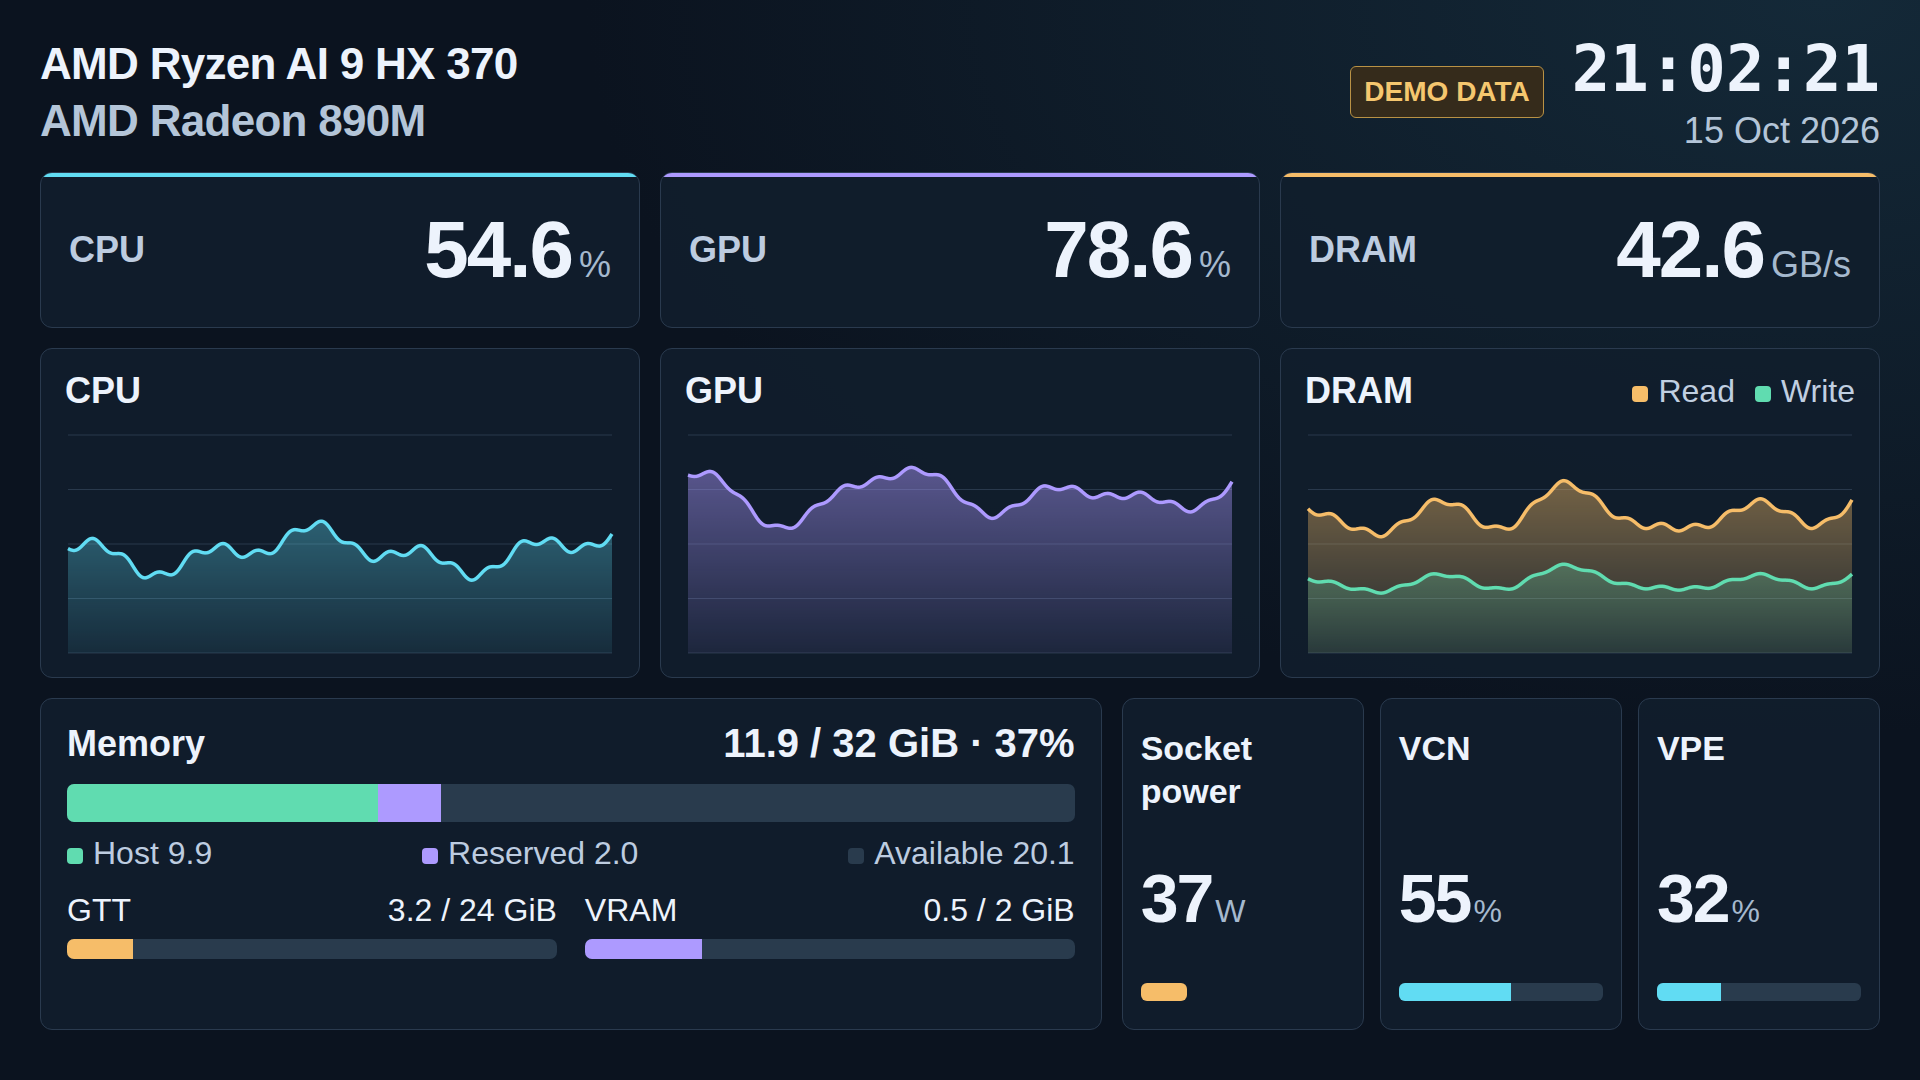
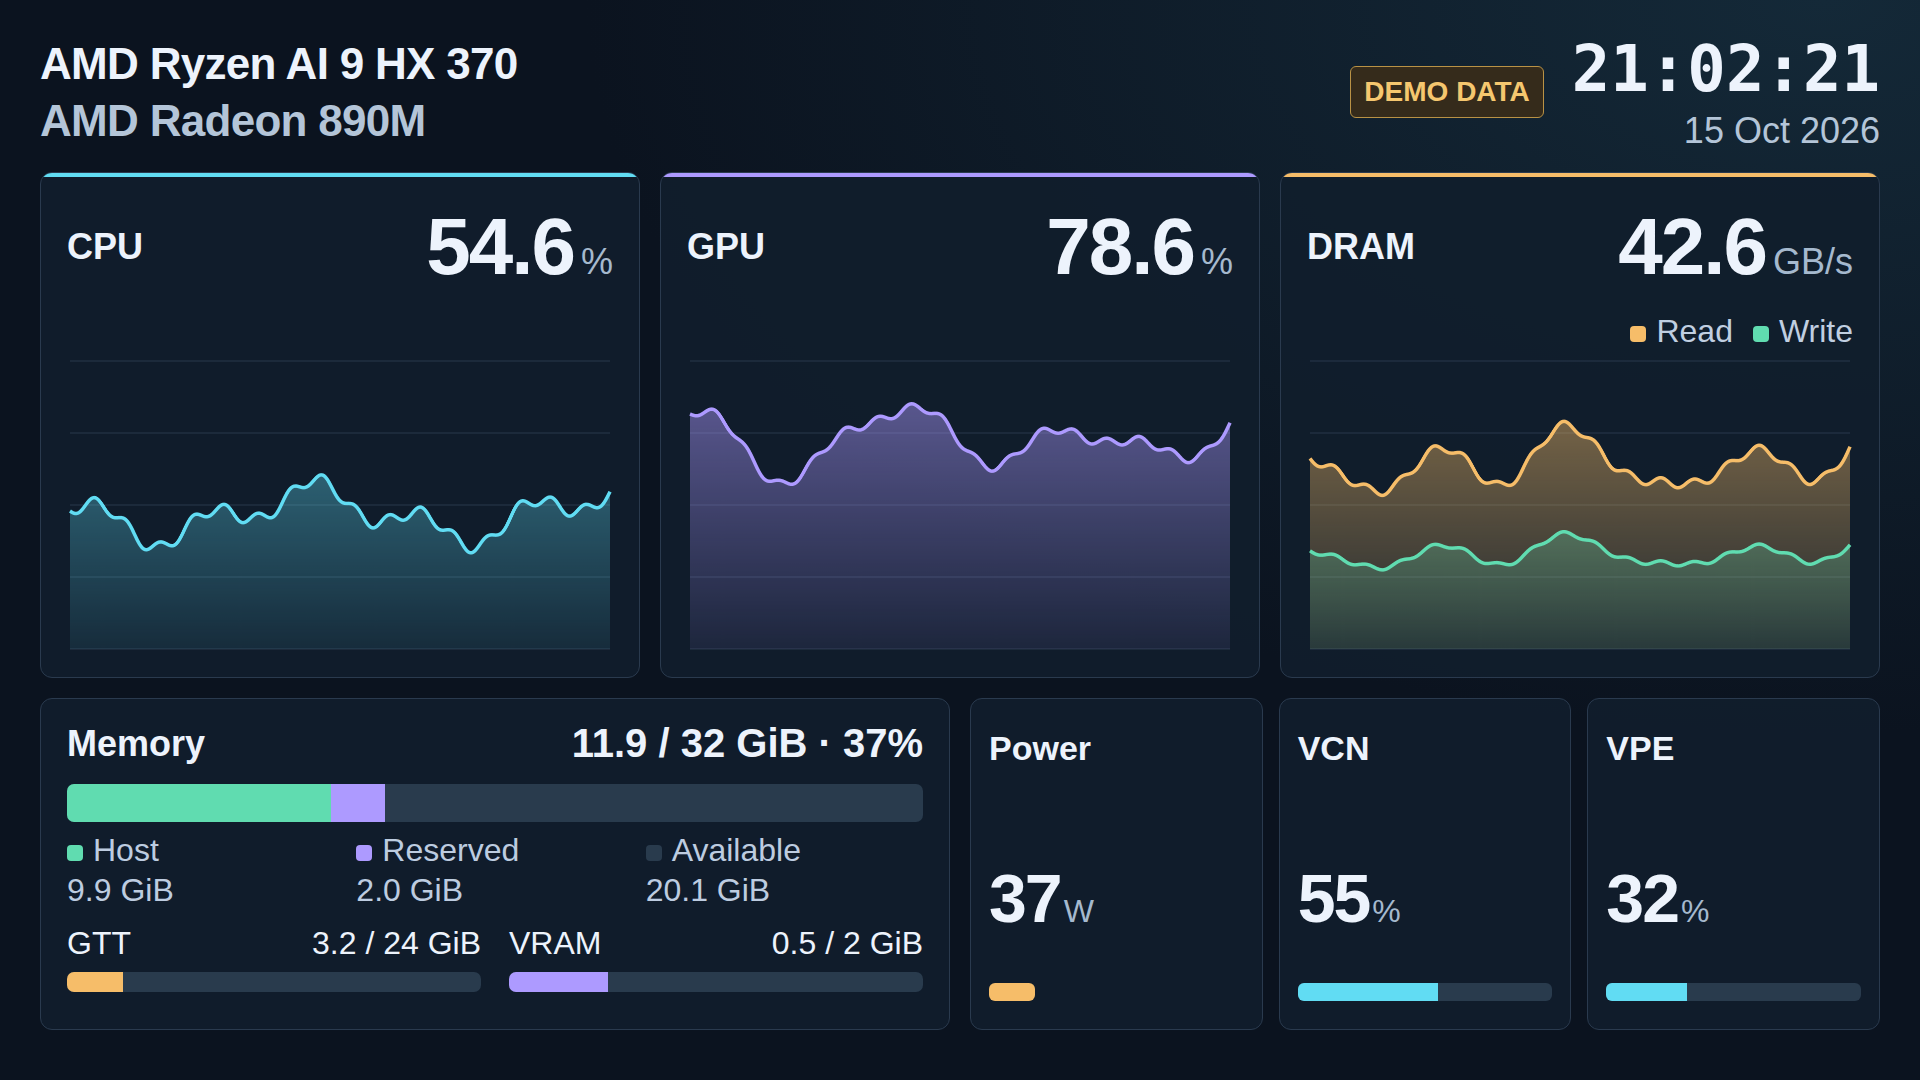
Combine dashboard reading and graph panels and balance lower row

diff --git a/examples/resource-dashboard/index.html b/examples/resource-dashboard/index.html
@@ -24,22 +24,19 @@ header { display: flex; align-items: center; justify-content: space-between; hei
 .badge { font-size: 28px; font-weight: 700; padding: 9px 13px; border: 1px solid #b99245; border-radius: 6px; color: #f5c76f; background: #352b1b; }
 #clock { font: 550 64px ui-monospace, monospace; font-variant-numeric: tabular-nums; }
 #date { font-size: 36px; color: #b4c5d8; margin-top: 4px; }
-.kpis { display: grid; grid-template-columns: repeat(3, 1fr); gap: 20px; margin-bottom: 20px; }
 .panel { background: #111e2ce6; border: 1px solid #2a3a4e; border-radius: 12px; overflow: hidden; }
-.kpi { height: 156px; padding: 18px 28px; position: relative; display: flex; align-items: center; justify-content: space-between; }
-.kpi::before { content: ''; position: absolute; top: 0; left: 0; width: 100%; height: 4px; background: var(--accent); }
-.label { font-size: 36px; font-weight: 550; color: #bdcce0; }
+.chart::before { content: ''; position: absolute; top: 0; left: 0; width: 100%; height: 4px; background: var(--accent); }
 .number { font-size: 80px; line-height: 1.15; letter-spacing: -2px; font-weight: 600; font-variant-numeric: tabular-nums; white-space: nowrap; }
 .number small { font-size: 36px; letter-spacing: 0; font-weight: 400; color: #a5b9ce; margin-left: 7px; }
 .cpu { --accent: #61dcf3; } .gpu { --accent: #ad9aff; } .dram { --accent: #f6bd69; }
 .charts { display: grid; grid-template-columns: repeat(3, 1fr); gap: 20px; margin-bottom: 20px; }
-.chart { height: 330px; padding: 22px 24px 18px; }
-.chart-head { display: flex; align-items: center; justify-content: space-between; margin-bottom: 16px; height: 40px; }
+.chart { height: 506px; padding: 24px 26px 20px; position: relative; }
+.chart-head { display: flex; align-items: center; justify-content: space-between; margin-bottom: 16px; height: 100px; }
 h2 { font-size: 36px; font-weight: 550; margin: 0; }
-.legend { display: flex; gap: 20px; font-size: 32px; color: #c0cfe1; }
+.legend { height: 40px; justify-content: flex-end; display: flex; gap: 20px; font-size: 32px; color: #c0cfe1; }
 .legend span::before, .key::before { content: ''; display: inline-block; width: 16px; height: 16px; border-radius: 4px; margin-right: 10px; background: var(--line); }
-canvas { display: block; width: 100%; height: 230px; }
-.details { display: grid; grid-template-columns: 1.4fr 1fr; gap: 20px; }
+canvas { display: block; width: 100%; height: 300px; }
+.details { display: grid; grid-template-columns: repeat(2, minmax(0, 1fr)); gap: 20px; }
 .memory { height: 332px; padding: 22px 26px; }
 .memory-heading { display: flex; align-items: center; justify-content: space-between; margin-bottom: 18px; }
 #memory-value { font-size: 40px; font-weight: 550; font-variant-numeric: tabular-nums; }
@@ -47,7 +44,8 @@ canvas { display: block; width: 100%; height: 230px; }
 .meter > div { height: 100%; flex: 0 0 auto; width: 0; }
 .meter.unavailable { background: repeating-linear-gradient(135deg, #293b4d 0 12px, #1a293a 12px 24px); }
 #host-meter { background: #60dcb0; } #reserved-meter { background: #ad9aff; }
-.memory-legend { display: flex; justify-content: space-between; font-size: 32px; margin: 13px 0 20px; color: #bdcce0; font-variant-numeric: tabular-nums; }
+.memory-legend { display: grid; grid-template-columns: repeat(3, 1fr); gap: 12px; font-size: 32px; margin: 10px 0 16px; color: #bdcce0; font-variant-numeric: tabular-nums; }
+.memory-legend .amount { display: block; font-weight: 500; margin-top: 3px; }
 .gpu-memory { display: grid; grid-template-columns: 1fr 1fr; gap: 28px; }
 .gpu-memory .row { display: flex; justify-content: space-between; align-items: center; margin-bottom: 10px; font-size: 32px; font-variant-numeric: tabular-nums; }
 .gpu-memory .meter { height: 20px; }
@@ -79,28 +77,23 @@ body.video .controls { display: none; }
     <div class="hardware"><div>AMD Ryzen AI 9 HX 370</div><div>AMD Radeon 890M</div></div>
     <div class="header-right"><div class="badge">DEMO DATA</div><div><div id="clock">--:--:--</div><div id="date">—</div></div></div>
   </header>
-  <section class="kpis" aria-label="Current readings">
-    <article class="panel kpi cpu"><div class="label">CPU</div><div class="number"><span id="cpu-value">—</span><small>%</small></div></article>
-    <article class="panel kpi gpu"><div class="label">GPU</div><div class="number"><span id="gpu-value">—</span><small>%</small></div></article>
-    <article class="panel kpi dram"><div class="label">DRAM</div><div class="number"><span id="dram-value">—</span><small>GB/s</small></div></article>
-  </section>
-  <section class="charts" aria-label="Last 60 seconds">
-    <article class="panel chart"><div class="chart-head"><h2>CPU</h2></div><canvas id="cpu-chart" width="1100" height="460" role="img" aria-label="CPU utilization over the last 60 seconds, 0 to 100 percent"></canvas></article>
-    <article class="panel chart"><div class="chart-head"><h2>GPU</h2></div><canvas id="gpu-chart" width="1100" height="460" role="img" aria-label="GPU utilization over the last 60 seconds, 0 to 100 percent"></canvas></article>
-    <article class="panel chart"><div class="chart-head"><h2>DRAM</h2><div class="legend"><span style="--line:#f6bd69">Read</span><span style="--line:#60dcb0">Write</span></div></div><canvas id="dram-chart" width="1100" height="460" role="img" aria-label="DRAM read and write bandwidth over the last 60 seconds in gigabytes per second"></canvas></article>
+  <section class="charts" aria-label="Current readings and last 60 seconds">
+    <article class="panel chart cpu"><div class="chart-head"><h2>CPU</h2><div class="number"><span id="cpu-value">—</span><small>%</small></div></div><div class="legend"></div><canvas id="cpu-chart" width="1100" height="600" role="img" aria-label="CPU utilization over the last 60 seconds, 0 to 100 percent"></canvas></article>
+    <article class="panel chart gpu"><div class="chart-head"><h2>GPU</h2><div class="number"><span id="gpu-value">—</span><small>%</small></div></div><div class="legend"></div><canvas id="gpu-chart" width="1100" height="600" role="img" aria-label="GPU utilization over the last 60 seconds, 0 to 100 percent"></canvas></article>
+    <article class="panel chart dram"><div class="chart-head"><h2>DRAM</h2><div class="number"><span id="dram-value">—</span><small>GB/s</small></div></div><div class="legend"><span style="--line:#f6bd69">Read</span><span style="--line:#60dcb0">Write</span></div><canvas id="dram-chart" width="1100" height="600" role="img" aria-label="DRAM read and write bandwidth over the last 60 seconds in gigabytes per second"></canvas></article>
   </section>
   <section class="details" aria-label="Memory and hardware engines">
     <article class="panel memory">
       <div class="memory-heading"><h2>Memory</h2><strong id="memory-value">—</strong></div>
       <div class="meter" id="system-meter" role="img" aria-label="Host usage and reserved VRAM"><div id="host-meter"></div><div id="reserved-meter"></div></div>
-      <div class="memory-legend"><span class="key" style="--line:#60dcb0" id="host-detail">Host —</span><span class="key" style="--line:#ad9aff" id="reserved-detail">Reserved —</span><span class="key" style="--line:#293b4d" id="available-detail">Available —</span></div>
+      <div class="memory-legend"><div><span class="key" style="--line:#60dcb0">Host</span><strong class="amount" id="host-detail">—</strong></div><div><span class="key" style="--line:#ad9aff">Reserved</span><strong class="amount" id="reserved-detail">—</strong></div><div><span class="key" style="--line:#293b4d">Available</span><strong class="amount" id="available-detail">—</strong></div></div>
       <div class="gpu-memory">
         <div><div class="row"><span>GTT</span><span id="gtt-value">—</span></div><div class="meter" id="gtt-track" role="img" aria-label="GTT allocation"><div id="gtt-meter"></div></div></div>
         <div><div class="row"><span>VRAM</span><span id="vram-value">—</span></div><div class="meter" id="vram-track" role="img" aria-label="VRAM usage within its reservation"><div id="vram-meter"></div></div></div>
       </div>
     </article>
     <div class="engines">
-      <article class="panel engine"><h2>Socket<br>power</h2><div class="number"><span id="socket-value">—</span><small>W</small></div><div class="power-mark"></div></article>
+      <article class="panel engine"><h2>Power</h2><div class="number"><span id="socket-value">—</span><small>W</small></div><div class="power-mark"></div></article>
       <article class="panel engine"><h2>VCN</h2><div class="number"><span id="vcn-value">—</span><small>%</small></div><div class="engine-meter" id="vcn-track" role="img" aria-label="VCN utilization"><div id="vcn-meter"></div></div></article>
       <article class="panel engine"><h2>VPE</h2><div class="number"><span id="vpe-value">—</span><small>%</small></div><div class="engine-meter" id="vpe-track" role="img" aria-label="VPE utilization of observable DRM clients"><div id="vpe-meter"></div></div></article>
     </div>
@@ -192,9 +185,9 @@ body.video .controls { display: none; }
     const allocated = totalKnown ? s.hostUsedGiB + s.vramReservedGiB : null;
     const pct = totalKnown ? allocated / capacity * 100 : null;
     $('memory-value').textContent = totalKnown ? format(allocated) + ' / ' + format(capacity, ' GiB', Number.isInteger(capacity) ? 0 : 1) + ' · ' + format(pct, '%', 0) : 'N/A';
-    $('host-detail').textContent = 'Host ' + format(hostKnown ? s.hostUsedGiB : null);
-    $('reserved-detail').textContent = 'Reserved ' + format(nonnegative(s.vramReservedGiB) ? s.vramReservedGiB : null);
-    $('available-detail').textContent = 'Available ' + format(hostKnown ? s.hostTotalGiB - s.hostUsedGiB : null);
+    $('host-detail').textContent = format(hostKnown ? s.hostUsedGiB : null, ' GiB');
+    $('reserved-detail').textContent = format(nonnegative(s.vramReservedGiB) ? s.vramReservedGiB : null, ' GiB');
+    $('available-detail').textContent = format(hostKnown ? s.hostTotalGiB - s.hostUsedGiB : null, ' GiB');
     meter('system-meter', [['host-meter', s.hostUsedGiB / capacity * 100], ['reserved-meter', s.vramReservedGiB / capacity * 100]], totalKnown,
       'Host including GTT, reserved VRAM, and available memory in GiB: ' + $('memory-value').textContent);
     const gttKnown = nonnegative(s.gttGiB) && valid(s.gttTotalGiB) && s.gttTotalGiB > 0 && s.gttGiB <= s.gttTotalGiB;

diff --git a/examples/resource-dashboard/README.md b/examples/resource-dashboard/README.md
@@ -10,8 +10,9 @@ xdg-open examples/resource-dashboard/index.html
 
 The dark 1920 × 1080 composition scales as a whole in narrower windows. Open
 `index.html?video=1` for the video area alone; **DEMO DATA** remains visible.
-This mode does not produce a video stream. The CPU/GPU names, date, readings
-and filled graphs are sized for smaller NVR tiles. Axis labels, explanatory
+This mode does not produce a video stream. Each CPU/GPU/DRAM panel combines its current reading and filled graph.
+Memory occupies half of the lower row; Power, VCN and VPE share the other half.
+The CPU/GPU names, date, readings and graphs are sized for smaller NVR tiles. Axis labels, explanatory
 notes, clock frequencies, per-process readings and separate APU/GFX power are omitted.
 
 Use the controls outside the video area to select **Idle**, **CPU load**,
@@ -36,6 +37,7 @@ The fixture models **32 GiB**, divided into 30 GiB of Host capacity and 2 GiB
 reserved for the iGPU. It distinguishes the reserved capacity from the amount
 actually used within that reservation. All memory values use binary GiB.
 
+Host, Reserved and Available each include the GiB unit in their readings.
 The main bar has a capacity of `hostTotalGiB + vramReservedGiB` and shows:
 
 - **Host:** `hostUsedGiB`, including GTT-backed pages accounted by the OS.
@@ -83,7 +85,7 @@ These sources are documented here; this version does not collect them.
 | VRAM reservation / used | amdgpu `mem_info_vram_total` / `mem_info_vram_used` |
 | GTT allocation / limit | amdgpu `mem_info_gtt_used` / `mem_info_gtt_total`; the limit is not installed RAM |
 | DRAM read / write | `gpu_metrics` v3.0 `dram_reads` / `dram_writes`, MB/s converted to GB/s; SoC-wide, CPU and GPU combined |
-| Socket power | `gpu_metrics` v3.0 socket power, mW converted to W |
+| Power | `gpu_metrics` v3.0 socket power, mW converted to W |
 | VCN | `vcn_busy_percent`; codec-engine utilization where supported |
 | VPE | `drm-engine-vpe` busy-time differences for observable DRM clients, divided by elapsed time and engine capacity |
 
